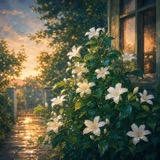
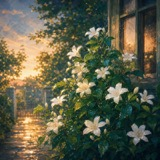
优化播放卡顿：减少高频 DOM 写入和同步存储
- 音量拖动中只更新音量与界面，松手（change/touchend）时才保存播放快照，
  避免每次 input/touchmove 同步写 localStorage
- 进度填充条改用 transform: scaleX 表示进度，避免 timeupdate 触发重排；
  时间文本仅在秒数变化时更新，去掉重复的 progress.value 赋值
- 歌单高亮缓存当前项，切歌时只更新新旧两项，不再遍历整个列表
- 歌名跑马灯检测合并为一次 requestAnimationFrame，先读后写
- 移动端歌词面板遮罩去掉全屏 backdrop-filter 模糊，略加深遮罩补偿层次
- 七里香封面由 2.8MB PNG 压缩为 800px JPEG（约 255KB），同步歌单与缩略图；
  当前播放封面图片加 decoding="async"
- 新增 .claude/launch.json 本地预览配置

diff --git a/app/app.js b/app/app.js
@@ -479,9 +479,13 @@ const progressControl = {
       elements.playTotalTime[i].textContent = '00:00';
     });
     elements.playColorFill.forEach(fill => {
-      fill.style.width = '0%';
+      fill.style.transform = 'scaleX(0)';
     });
+    this.lastTimeText = '00:00';
   },
+
+  // 上次写入的当前时间文本；timeupdate 每秒触发约 4 次，秒数变了才改 DOM 文本
+  lastTimeText: '',
 
   updateRange() {
     const duration = Number.isFinite(audioControl.audioSource.duration)
@@ -497,13 +501,18 @@ const progressControl = {
 
   updateRunningTime() {
     if (state.isSeeking) return;
+    const currentTime = audioControl.audioSource.currentTime;
+    const currentTimeText = timeFormatSecondsToMinutes(currentTime);
+    const textChanged = currentTimeText !== this.lastTimeText;
+    this.lastTimeText = currentTimeText;
     elements.playProgress.forEach((progress, i) => {
-      progress.value = audioControl.audioSource.currentTime;
-      const currentTimeText = timeFormatSecondsToMinutes(audioControl.audioSource.currentTime);
-      elements.playCurrentTime[i].textContent = currentTimeText;
-      progress.setAttribute('aria-valuetext', currentTimeText);
+      progress.value = currentTime;
+      if (textChanged) {
+        elements.playCurrentTime[i].textContent = currentTimeText;
+        progress.setAttribute('aria-valuetext', currentTimeText);
+      }
     });
-    this.updateRangeColor();
+    this.updateFill(currentTime, Number(elements.playProgress[0]?.max));
     if (lyricsManager && !audioControl.audioSource.paused) {
       lyricsManager.update(audioControl.audioSource.currentTime);
     }
@@ -522,15 +531,17 @@ const progressControl = {
       element = e.target || e;
     }
 
-    const max = Number(element.max);
-    const value = Number(element.value);
-    const rangeValue = max > 0 ? (value / max) * 100 : 0;
-    elements.playColorFill.forEach(fill => {
-      fill.style.width = `${rangeValue}%`;
-    });
-
     elements.playProgress.forEach(progress => {
-      progress.value = element.value;
+      if (progress !== element) progress.value = element.value;
+    });
+    this.updateFill(Number(element.value), Number(element.max));
+  },
+
+  // 填充条固定为满宽，用 scaleX 表示进度：只触发合成，不引起重排，也不重绘发光阴影所在区域
+  updateFill(value, max) {
+    const ratio = max > 0 ? Math.max(0, Math.min(1, value / max)) : 0;
+    elements.playColorFill.forEach(fill => {
+      fill.style.transform = `scaleX(${ratio})`;
     });
   },
 
@@ -592,8 +603,9 @@ const progressControl = {
       progress.max = sourceProgress.max;
       progress.value = currentTime;
     });
+    this.lastTimeText = timeFormatSecondsToMinutes(currentTime);
     elements.playCurrentTime.forEach(el => {
-      el.textContent = timeFormatSecondsToMinutes(currentTime);
+      el.textContent = this.lastTimeText;
     });
     this.updateRangeColor(sourceProgress);
   }
@@ -610,10 +622,11 @@ const volumeControl = {
     e?.stopPropagation?.();
 
     const volume = Math.max(0, Math.min(1, Number(elements.volumeRange.value)));
-    this.applyVolume(volume);
+    // 拖动中的 input 事件只更新音量和界面，松手触发 change 时才落盘，避免拖动时频繁同步写 localStorage
+    this.applyVolume(volume, { persist: e?.type !== 'input' });
   },
 
-  applyVolume(volume) {
+  applyVolume(volume, { persist = true } = {}) {
     const percentage = (volume / Number(elements.volumeRange.max)) * 100;
 
     elements.volumeRange.value = volume;
@@ -625,10 +638,12 @@ const volumeControl = {
     elements.volumeColorFill.style.width = `${percentage}%`;
 
     this.updateVolumeIcon(volume > 0);
-    savePlaybackState();
+    if (persist) {
+      savePlaybackState();
+    }
   },
 
-  changeByClientX(clientX) {
+  changeByClientX(clientX, options) {
     const rect = elements.volumeRange.getBoundingClientRect();
     if (!rect.width) return;
 
@@ -636,7 +651,7 @@ const volumeControl = {
     const min = Number(elements.volumeRange.min) || 0;
     const max = Number(elements.volumeRange.max) || 1;
     const volume = min + (max - min) * ratio;
-    this.applyVolume(Number(volume.toFixed(2)));
+    this.applyVolume(Number(volume.toFixed(2)), options);
   },
 
   handleTouch(e) {
@@ -647,7 +662,8 @@ const volumeControl = {
 
     const touch = e.touches?.[0] || e.changedTouches?.[0];
     if (!touch) return;
-    this.changeByClientX(touch.clientX);
+    // touchstart/touchmove 期间只调音量，手指抬起（touchend）时再保存快照
+    this.changeByClientX(touch.clientX, { persist: e.type === 'touchend' });
   },
 
   updateVolumeIcon(hasSound) {
@@ -734,23 +750,10 @@ const nowPlayingControl = {
           // 更新歌曲名称
           element.textContent = songName;
           element.title = songName;
-          
-          // 检测文本是否溢出，如果溢出则添加跑马灯效果
-          setTimeout(() => {
-            const songNameContainer = element.closest('.song-name');
-            if (songNameContainer) {
-              const containerWidth = songNameContainer.offsetWidth;
-              const textWidth = element.scrollWidth;
-              if (textWidth > containerWidth) {
-                songNameContainer.classList.add('marquee');
-              } else {
-                songNameContainer.classList.remove('marquee');
-              }
-            }
-          }, 100);
         }
       });
     });
+    this.scheduleMarqueeCheck();
 
     elements.currentPlayAuthor.forEach(element => {
       element.textContent = author;
@@ -773,6 +776,26 @@ const nowPlayingControl = {
       lyricsManager.clear();
       lyricsManager.loadLyrics(song);
     }
+  },
+
+  marqueeFrame: 0,
+
+  /**
+   * 歌名溢出时加跑马灯。所有歌名的写入完成后在下一帧统一测量一次，
+   * 避免每个元素各起一个定时器、各自强制同步布局；快速切歌时只保留最后一次测量。
+   */
+  scheduleMarqueeCheck() {
+    cancelAnimationFrame(this.marqueeFrame);
+    this.marqueeFrame = requestAnimationFrame(() => {
+      const measurements = Array.from(elements.currentPlayName, element => {
+        const container = element.closest('.song-name');
+        return container && { container, overflow: element.scrollWidth > container.offsetWidth };
+      }).filter(Boolean);
+      // 先集中读取，再集中写 class，读写不交错
+      measurements.forEach(({ container, overflow }) => {
+        container.classList.toggle('marquee', overflow);
+      });
+    });
   }
 };
 

diff --git a/app/playlist-view.js b/app/playlist-view.js
@@ -33,6 +33,7 @@ export class PlaylistView {
     this.categoryId = '';
     this.songs = [];
     this.lastSelect = { id: '', at: 0 };
+    this.activeItem = null;   // 当前高亮的列表项缓存，切歌时只改新旧两项
 
     this.renderTabs(categories);
     this.bindListEvents();
@@ -58,19 +59,27 @@ export class PlaylistView {
    * 根据 isCurrent 刷新高亮项，并保证列表始终有一项可通过 Tab 键聚焦
    */
   updateActiveItem() {
-    const items = Array.from(this.listEl.querySelectorAll('.contentList-item'));
-    let hasActiveItem = false;
-    items.forEach(item => {
-      const isActive = this.isCurrent(this.getSongForItem(item));
-      item.classList.toggle('active', isActive);
-      item.setAttribute('aria-selected', String(isActive));
-      item.tabIndex = isActive ? 0 : -1;
-      hasActiveItem ||= isActive;
-    });
+    // 在数据数组里找当前歌曲（纯 JS，很便宜），列表项顺序与 songs 一致，可直接按下标取节点
+    const index = this.songs.findIndex(song => this.isCurrent(song));
+    const nextItem = index >= 0 ? this.listEl.children[index] ?? null : null;
+    if (nextItem === this.activeItem) return;
 
-    if (!hasActiveItem && items[0]) {
-      items[0].tabIndex = 0;
+    const firstItem = this.listEl.children[0];
+    if (this.activeItem) {
+      this.activeItem.classList.remove('active');
+      this.activeItem.setAttribute('aria-selected', 'false');
+      this.activeItem.tabIndex = -1;
     }
+    if (nextItem) {
+      nextItem.classList.add('active');
+      nextItem.setAttribute('aria-selected', 'true');
+      nextItem.tabIndex = 0;
+    }
+    // 没有高亮项时保证第一项可通过 Tab 键聚焦；有高亮项时第一项只作普通项
+    if (firstItem && firstItem !== nextItem) {
+      firstItem.tabIndex = nextItem ? -1 : 0;
+    }
+    this.activeItem = nextItem;
   }
 
   scrollToActive() {
@@ -166,6 +175,8 @@ export class PlaylistView {
     });
 
     this.listEl.replaceChildren(fragment);
+    // 列表已整体重建，旧缓存节点失效
+    this.activeItem = null;
     this.updateActiveItem();
   }
 

diff --git a/index.html b/index.html
@@ -58,7 +58,7 @@
                 <main class="main-wrap">
                     <!-- 歌曲播放面板 -->
                     <!-- 背景图片 -->
-                    <img class="imgBoard" currentPlay-img400 src="./assets/covers/defaults/48.jpg" alt="当前歌曲封面">
+                    <img class="imgBoard" currentPlay-img400 src="./assets/covers/defaults/48.jpg" alt="当前歌曲封面" decoding="async">
 
                     <!-- 歌曲播放控制面板 -->
                     <div class="song_panel" id="current-song-panel" song-panel aria-labelledby="current-song-title">
@@ -76,7 +76,7 @@
                             <div class="content-left flex">
                                 <div class="left-songInfo flex">
                                     <div class="songInfo-img flex">
-                                        <img class="img" src="./assets/covers/defaults/48.jpg" alt="当前歌曲封面" play-img-board currentPlay-img400>
+                                        <img class="img" src="./assets/covers/defaults/48.jpg" alt="当前歌曲封面" decoding="async" play-img-board currentPlay-img400>
                                     </div>
                                     <div class="songInfo-item flex">
                                         <div class="song-name">
@@ -157,7 +157,7 @@
                 <div class="play-setting flex">
                     <button class="footer-current-song" type="button" lyrics-panel-toggle
                         aria-label="打开当前歌曲和歌词" aria-controls="current-song-panel" aria-expanded="false">
-                        <img class="footer-current-cover" currentPlay-img400 src="./assets/covers/defaults/48.jpg" alt="">
+                        <img class="footer-current-cover" currentPlay-img400 src="./assets/covers/defaults/48.jpg" alt="" decoding="async">
                         <span class="footer-current-copy">
                             <span class="footer-current-label">正在播放</span>
                             <span class="footer-current-title text-ol" currentPlay-name>正在加载</span>

diff --git a/css/response.css b/css/response.css
@@ -322,11 +322,10 @@
     visibility: hidden;
     border: 0;
     border-radius: 0;
-    background: rgba(4, 12, 18, 0.58);
+    background: rgba(4, 12, 18, 0.66);
     opacity: 0;
     pointer-events: none;
-    backdrop-filter: blur(8px);
-    -webkit-backdrop-filter: blur(8px);
+    /* 不使用全屏 backdrop-filter 模糊：低端机打开/关闭面板时开销大，深色半透明遮罩已足够区分层次 */
     transition: opacity 0.22s ease, visibility 0.22s ease;
   }
 

diff --git a/css/style.css b/css/style.css
@@ -285,7 +285,11 @@
 	position: absolute;
 	top: 0;
 	left: 0;
-	width: 0;
+	/* 进度由 JS 设置 transform: scaleX(比例) 表示，宽度固定为满宽，避免每次 timeupdate 重排 */
+	width: 100%;
+	transform: scaleX(0);
+	transform-origin: left center;
+	will-change: transform;
 	height: 4px;
 	background: linear-gradient(90deg, rgba(255, 255, 255, 0.9), rgba(255, 193, 120, 0.9));
 	border-radius: 999px;

diff --git a/catalog/liuxingjingdian.js b/catalog/liuxingjingdian.js
@@ -370,7 +370,7 @@ export const popClassicsList = [
     song_path: FILE_MUSIC_LIUXINGJINGDIAN,
     song_name: "七里香",
     song_file: "七里香 - 周杰伦.m4a",
-    img_file: "七里香 - 周杰伦.png",
+    img_file: "七里香 - 周杰伦.jpg",
     lyrics_file: "七里香 - 周杰伦.lrc",
     lyrics_type: CONFIG.LOAD_LYRICS_TYPE.TYPE_file,
     author: "周杰伦",
